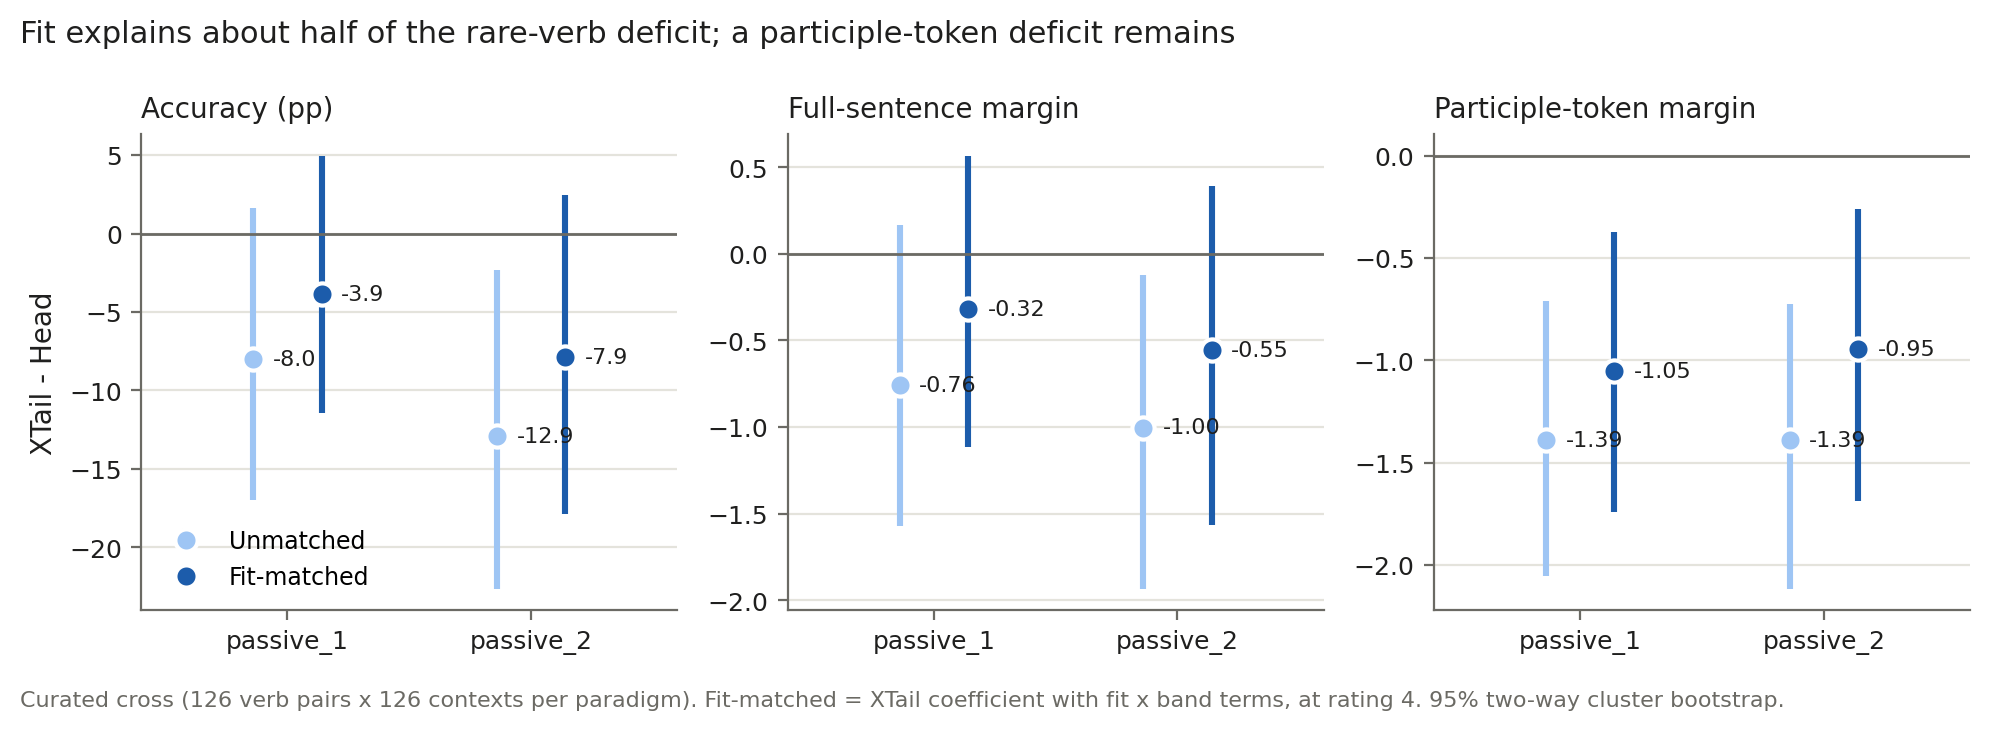
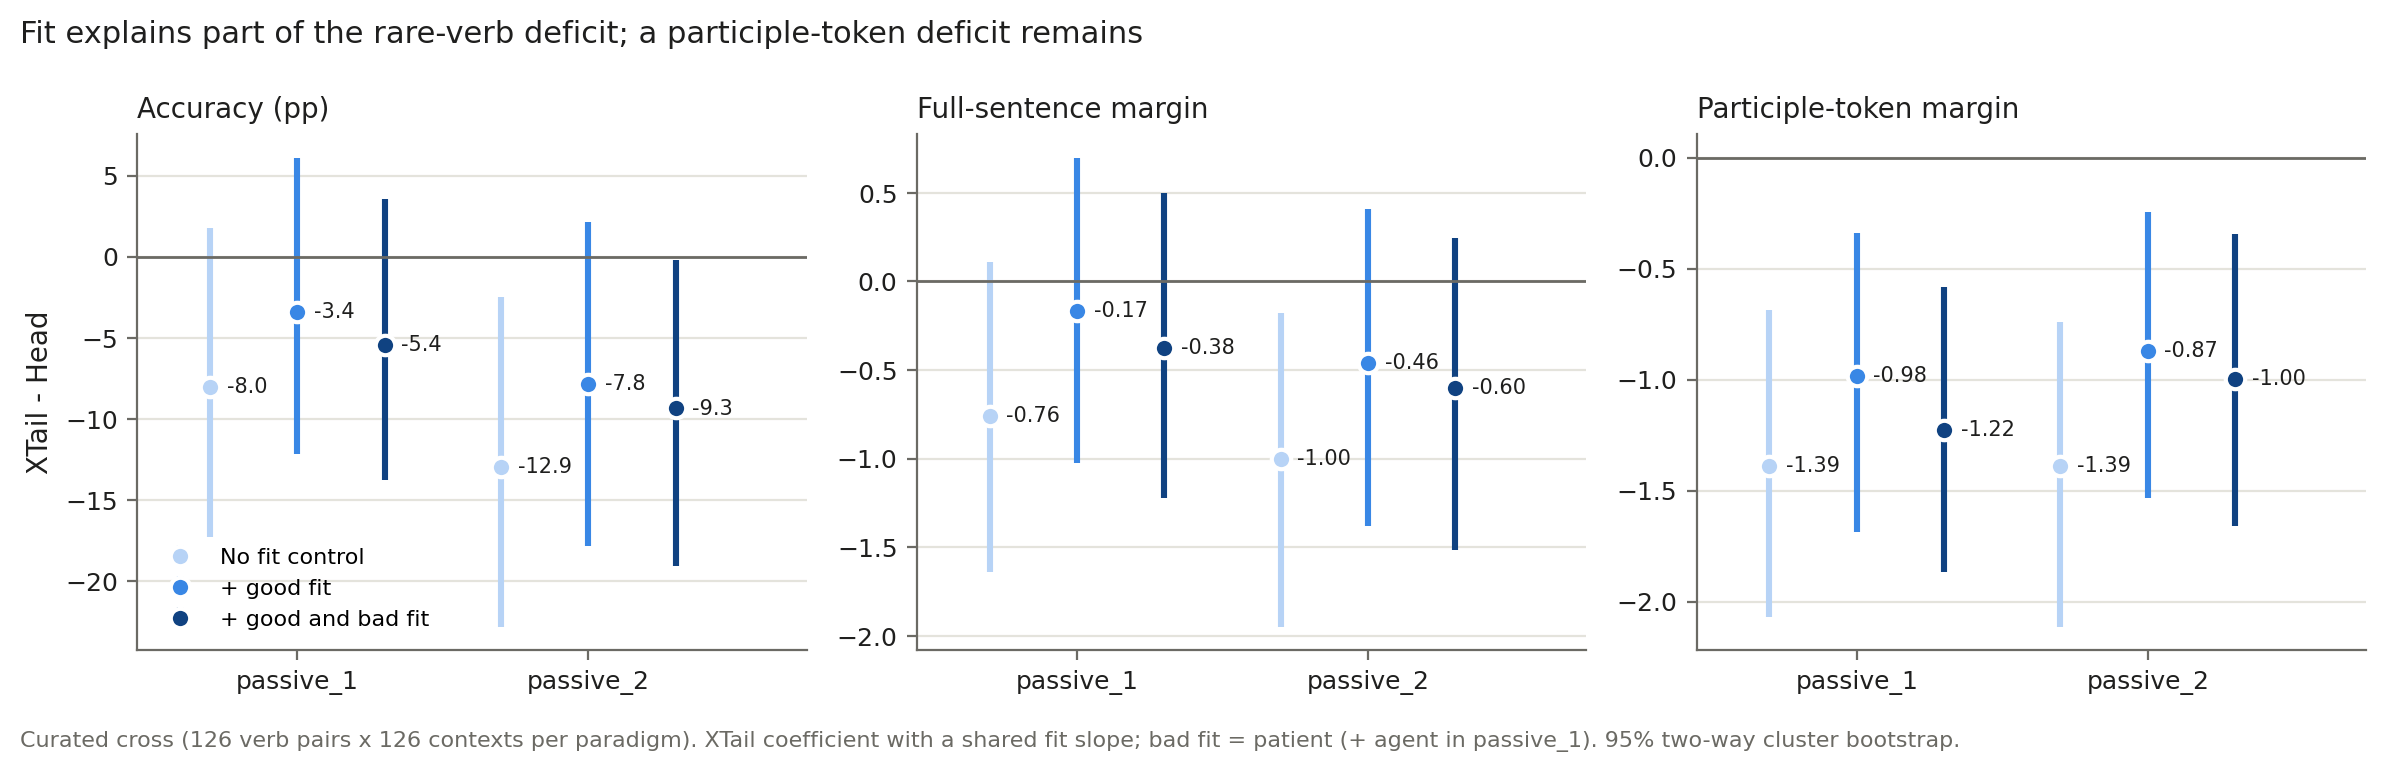
Draw the XTail effect figure from the shared-slope model table
One model spec (shared fit slope) and one bootstrap for every
fit-controlled XTail estimate, adding the good+bad step.

diff --git a/scripts/make_passive_fit_figures.py b/scripts/make_passive_fit_figures.py
@@ -3,7 +3,7 @@
 
 1. band_cross_accuracy.png: accuracy by verb band x context band (released).
 2. fit_accuracy.png: accuracy vs fit rating by verb band, and fit distributions.
-3. xtail_effect_matched.png: XTail - Head with and without fit adjustment.
+3. xtail_effect_matched.png: XTail - Head with no, good, and good+bad fit control.
 """
 
 from __future__ import annotations
@@ -32,14 +32,6 @@ def style(ax):
     ax.tick_params(colors=MUTED, labelcolor=INK, labelsize=9)
     ax.grid(axis="y", color=GRID, linewidth=0.8)
     ax.set_axisbelow(True)
-
-
-def weights(rng, labels, n_boot):
-    w = np.ones((n_boot + 1, len(labels)))
-    for band in np.unique(labels):
-        idx = np.flatnonzero(labels == band)
-        w[1:, idx] = rng.multinomial(len(idx), np.full(len(idx), 1 / len(idx)), size=n_boot)
-    return w
 
 
 def band_cross_figure(cells, out):
@@ -119,61 +111,34 @@ def fit_figure(cur, out, n_boot, rng):
     plt.close(fig)
 
 
-def adjusted_effects(cur, n_boot, rng):
-    rows = []
-    for paradigm, sub in cur.groupby("paradigm"):
-        verbs = sub.drop_duplicates("verb_pair").sort_values("verb_pair")
-        ctxs = sub.drop_duplicates("context_id").sort_values("context_id")
-        vi = sub.verb_pair.map({v: i for i, v in enumerate(verbs.verb_pair)}).to_numpy()
-        ci = sub.context_id.map({c: i for i, c in enumerate(ctxs.context_id)}).to_numpy()
-        wv, wc = weights(rng, verbs.verb_band.to_numpy(), n_boot), weights(rng, ctxs.context_band.to_numpy(), n_boot)
-        fit = sub.rating.to_numpy() - 4
-        t, x = (sub.verb_band == "tail").to_numpy(float), (sub.verb_band == "xtail").to_numpy(float)
-        one = np.ones(len(sub))
-        designs = {"Unmatched": np.column_stack([one, t, x]),
-                   "Fit-matched": np.column_stack([one, fit, t, x, fit * t, fit * x])}
-        xcol = {"Unmatched": 2, "Fit-matched": 3}
-        for metric in ("correct", "whole_margin", "verb_margin"):
-            y = sub[metric].to_numpy(float) * (100 if metric == "correct" else 1)
-            for name, X in designs.items():
-                draws = []
-                for b in range(n_boot + 1):
-                    w = wv[b, vi] * wc[b, ci]
-                    k = w > 0
-                    sw = np.sqrt(w[k])
-                    beta, *_ = np.linalg.lstsq(X[k] * sw[:, None], y[k] * sw, rcond=None)
-                    draws.append(beta[xcol[name]])
-                d = np.array(draws)
-                rows.append({"paradigm": paradigm, "metric": metric, "model": name, "estimate": d[0],
-                             "ci_low": np.percentile(d[1:], 2.5), "ci_high": np.percentile(d[1:], 97.5)})
-    return pd.DataFrame(rows)
-
-
-def effect_figure(eff, out):
+def effect_figure(models, out):
+    """XTail - Head from analyze_bad_fit.py's shared-slope models (one source for all numbers)."""
     metrics = [("correct", "Accuracy (pp)"), ("whole_margin", "Full-sentence margin"),
                ("verb_margin", "Participle-token margin")]
-    shade = {"Unmatched": "#9ec5f4", "Fit-matched": "#1c5cab"}
-    fig, axes = plt.subplots(1, 3, figsize=(10, 3.4))
+    steps = [("unmatched", "No fit control", "#b7d3f6"), ("good", "+ good fit", "#3987e5"),
+             ("good+bad", "+ good and bad fit", "#104281")]
+    eff = models[models.term == "xtail"]
+    fig, axes = plt.subplots(1, 3, figsize=(12, 3.6))
     for ax, (metric, title) in zip(axes, metrics):
-        for j, model in enumerate(("Unmatched", "Fit-matched")):
+        for j, (model, label, color) in enumerate(steps):
             r = eff[(eff.metric == metric) & (eff.model == model)].set_index("paradigm").loc[list(PARADIGM)]
-            x = np.arange(2) + (j - 0.5) * 0.28
+            x = np.arange(2) + (j - 1) * 0.3
             ax.errorbar(x, r.estimate, yerr=[r.estimate - r.ci_low, r.ci_high - r.estimate], fmt="o",
-                        color=shade[model], ms=8, lw=2.2, capsize=0, mec="white", mew=1.5, label=model)
+                        color=color, ms=7, lw=2.2, capsize=0, mec="white", mew=1.5, label=label)
             for xi, v in zip(x, r.estimate):
-                ax.annotate(f"{v:.1f}" if metric == "correct" else f"{v:.2f}", (xi, v), xytext=(7, 0),
-                            textcoords="offset points", va="center", fontsize=8, color=INK)
+                ax.annotate(f"{v:.1f}" if metric == "correct" else f"{v:.2f}", (xi, v), xytext=(6, 0),
+                            textcoords="offset points", va="center", fontsize=7.5, color=INK)
         ax.axhline(0, color=MUTED, lw=1)
         ax.set_xticks(range(2), ["passive_1", "passive_2"])
-        ax.set_xlim(-0.6, 1.6)
+        ax.set_xlim(-0.55, 1.75)
         ax.set_title(title, fontsize=10, color=INK, loc="left")
         style(ax)
     axes[0].set_ylabel("XTail - Head", color=INK)
-    axes[0].legend(frameon=False, fontsize=8.5, loc="lower left")
-    fig.suptitle("Fit explains about half of the rare-verb deficit; a participle-token deficit remains",
+    axes[0].legend(frameon=False, fontsize=8, loc="lower left")
+    fig.suptitle("Fit explains part of the rare-verb deficit; a participle-token deficit remains",
                  x=0.01, ha="left", fontsize=11, color=INK)
-    fig.text(0.01, -0.03, "Curated cross (126 verb pairs x 126 contexts per paradigm). Fit-matched = XTail "
-             "coefficient with fit x band terms, at rating 4. 95% two-way cluster bootstrap.",
+    fig.text(0.01, -0.03, "Curated cross (126 verb pairs x 126 contexts per paradigm). XTail coefficient with a "
+             "shared fit slope; bad fit = patient (+ agent in passive_1). 95% two-way cluster bootstrap.",
              fontsize=8, color=MUTED)
     fig.tight_layout()
     fig.savefig(out, dpi=200, bbox_inches="tight")
@@ -190,10 +155,7 @@ def run(args):
     rating = pd.read_csv(args.ratings).groupby("item_id").rating.mean().rename("rating")
     cur = scores[scores.context_set == "curated"].merge(links, on="pair_id").merge(rating, on="item_id")
     fit_figure(cur, out / "fit_accuracy.png", args.n_boot, rng)
-    eff = adjusted_effects(cur, args.n_boot, rng)
-    eff.to_csv(out / "xtail_effect_matched.csv", index=False)
-    effect_figure(eff, out / "xtail_effect_matched.png")
-    print(eff.round(3).to_string(index=False))
+    effect_figure(pd.read_csv(args.models), out / "xtail_effect_matched.png")
 
 
 if __name__ == "__main__":
@@ -202,6 +164,7 @@ if __name__ == "__main__":
     ap.add_argument("--scores", default="results/passive_band_cross/pythia14b_scores.csv")
     ap.add_argument("--links", default="data/fit_ratings/item_links.csv")
     ap.add_argument("--ratings", default="results/fit_ratings/gemma4_31b_it.csv")
+    ap.add_argument("--models", default="reports/fit_ratings/bad_fit_models.csv")
     ap.add_argument("--out-dir", default="reports/figures")
     ap.add_argument("--n-boot", type=int, default=1000)
     ap.add_argument("--seed", type=int, default=17)
